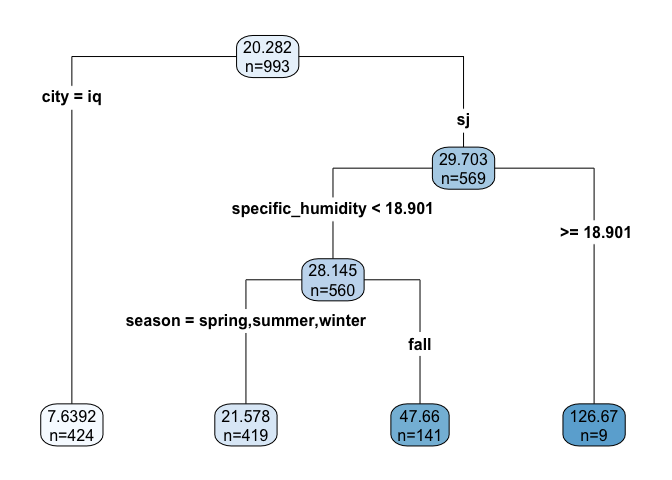
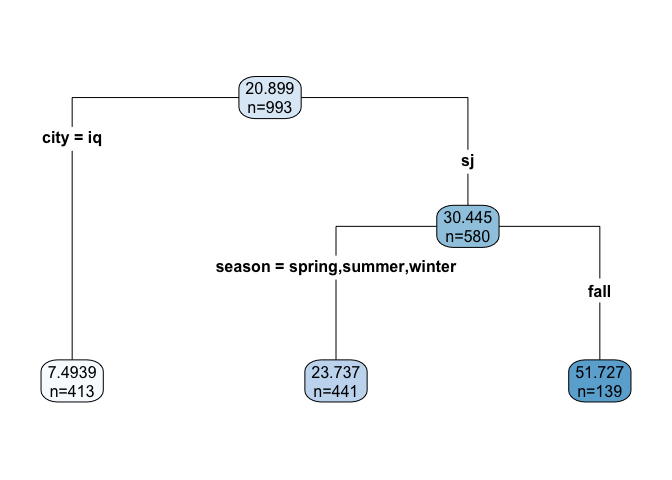
Solved problem 3.

diff --git a/code/data_mining_ex3.md b/code/data_mining_ex3.md
@@ -1,8 +1,8 @@
-Problem 1
-=========
+Problem 1: What causes what?
+============================
 
-1. Why can’t I just get data from a few different cities and run the regression of “Crime” on “Police” to understand how more cops in the streets affect crime? (“Crime” refers to some measure of crime rate and “Police” measures the number of cops in a city.)
-------------------------------------------------------------------------------------------------------------------------------------------------------------------------------------------------------------------------------------------------------------------
+Why can’t I just get data from a few different cities and run the regression of “Crime” on “Police” to understand how more cops in the streets affect crime? (“Crime” refers to some measure of crime rate and “Police” measures the number of cops in a city.)
+---------------------------------------------------------------------------------------------------------------------------------------------------------------------------------------------------------------------------------------------------------------
 
 Firstly, grouping data from different cities makes the incorrect
 assumption that the data points are independently and identically
@@ -17,8 +17,8 @@ lack of control variables in the regression as crime rates can be
 influenced by several other variables as mentioned above; this could
 lead to incorrect estimation of the effect of “Police” on “Crime”.
 
-2. How were the researchers from UPenn able to isolate this effect? Briefly describe their approach and discuss their result in the “Table 2” below, from the researchers’ paper.
----------------------------------------------------------------------------------------------------------------------------------------------------------------------------------
+How were the researchers from UPenn able to isolate this effect? Briefly describe their approach and discuss their result in the “Table 2” below, from the researchers’ paper.
+------------------------------------------------------------------------------------------------------------------------------------------------------------------------------
 
 The researchers from UPenn narrowed down their research to only one
 city, Washington, D.C., assuming that the data points would be
@@ -61,8 +61,8 @@ statistically significant at the 5% and 1% level, respectively, the
 second regression performs better than the first regression, although by
 only a small margin.
 
-3. Why did they have to control for Metro ridership? What was that trying to capture?
--------------------------------------------------------------------------------------
+Why did they have to control for Metro ridership? What was that trying to capture?
+----------------------------------------------------------------------------------
 
 It is possible that on High Alert days, fewer people are out in the city
 due to higher threat levels of terrorism. Fewer people out in the city
@@ -72,8 +72,8 @@ controlled for. Metro ridership attempts to capture the number of
 potential victims of crime based on the changes in ridership with
 respect to High Alert days.
 
-4. Below I am showing you “Table 4” from the researchers’ paper. Just focus on the first column of the table. Can you describe the model being estimated here? What is the conclusion?
---------------------------------------------------------------------------------------------------------------------------------------------------------------------------------------
+Below I am showing you “Table 4” from the researchers’ paper. Just focus on the first column of the table. Can you describe the model being estimated here? What is the conclusion?
+-----------------------------------------------------------------------------------------------------------------------------------------------------------------------------------
 
 The researchers are estimating the district-specific effects of High
 Alert days on the daily total number of crimes in D.C., while
@@ -103,8 +103,8 @@ constant. However, a comparison between District 1 and Other Districts
 cannot be made due the lack of significance of the “High Alert x Other
 Districts” coefficient.
 
-Problem 2
-=========
+Problem 2: Tree modeling: dengue cases
+======================================
 
 CART model: Regression Tree
 ---------------------------
@@ -117,14 +117,14 @@ CART model: Regression Tree
 
 ### RMSE of predicting the regression tree on the test set
 
-    ## [1] 32.89083
+    ## [1] 29.93283
 
 Random Forests
 --------------
 
-### RMSE of predicting randam forest on the test set
+### RMSE of predicting random forest on the test set
 
-    ## [1] 31.72132
+    ## [1] 27.69444
 
 Gradient-Boosted Trees
 ----------------------
@@ -133,7 +133,7 @@ Gradient-Boosted Trees
 
 ![](data_mining_ex3_files/figure-markdown_strict/unnamed-chunk-5-1.png)
 
-    ## [1] 245
+    ## [1] 85
 
 The figure above displays a loss function as a result of n trees added
 to the ensemble for the chosen gradient boosted machine (gbm) model .
@@ -148,9 +148,9 @@ The RMSE between the predicted total number cases of dengue from the
 chosen gbm model and the actual total number of cases of dengue from the
 test set is shown below.
 
-    ## [1] 32.54443
+    ## [1] 28.23562
 
-### Possion distribution
+### Poisson distribution
 
 This gbm model assumes poisson distibution since the variable of
 interest is a count variable. All parameters are the same as for the
@@ -159,7 +159,7 @@ function above. The RMSE between the predicted total number cases of
 dengue from the chosen gbm model and the actual total number of cases of
 dengue from the test set is shown below.
 
-    ## [1] 32.72318
+    ## [1] 28.84149
 
 Since, the RMSE for the second gbm model is the lowest out of all the
 models observed above, it will be utilized to create partial dependence
@@ -183,9 +183,132 @@ Rainfall for the week in millimeters.
 
 ![](data_mining_ex3_files/figure-markdown_strict/unnamed-chunk-9-1.png)
 
-### tdtr\_k"
+### tdtr\_k
 
 The average Diurnal Temperature Range (DTR) for the week. DTR is the
 difference between the maximum and minimum temperature for a single day.
 
 ![](data_mining_ex3_files/figure-markdown_strict/unnamed-chunk-10-1.png)
+
+Problem 3: Predictive model building: green certification
+=========================================================
+
+Goal
+----
+
+The goal is to build the best predictive model possible for revenue per
+square foot per calendar year, and to use this model to quantify the
+average change in rental income per square foot ssociated with green
+certification, holding other features of the building constant.
+
+Methods
+-------
+
+I first created a new data frame with a ***revenue*** column which is a
+product of the ***Rent*** and ***leasing\_rate*** variables. Then to
+decide whether to include the green certifications of ***Energystar***
+and ***LEED*** separately or as a single green certification rating, I
+performed some exploratory analysis. I plotted ***mean\_revenue***
+against ***age*** faceted first by ***Energystar*** and
+***renovation***, and then by ***LEED*** and ***renovation***. I assumed
+that property age would be among the top influencers for mean revenue,
+so faceting the data by ***Energystar*** and ***LEED*** would reveal
+clearer effects of the two ratings on the mean revenue. I also faceted
+by ***renovation*** assuming that for older buildings, renovated
+properties are more likely to have green ratings. The plots reflect that
+buildings with the LEED certification tend to have lower mean revenues
+than the buildings with the Energystar certification, therefore I
+decided to include both the certification separately.
+
+![](data_mining_ex3_files/figure-markdown_strict/unnamed-chunk-11-1.png)![](data_mining_ex3_files/figure-markdown_strict/unnamed-chunk-11-2.png)
+
+Modeling approach
+-----------------
+
+### Random Forests
+
+I began by splitting 80% of the data into the training set and 20% into
+the testing set. I started with the random forests technique as it is
+quite robust, quick, and basically eliminates the need for
+cross-validation due to its “out-of-bag” predictions. I first utilized
+all of the features in the training set and calculated the resulting
+RMSE between the predcited revenue and the actual revenue in the testing
+set which is shown below. It is
+
+    ## [1] 775.0415
+
+To identify the important variables in the random forest model, I
+plotted the variable importance graph shown below. It can be seen that
+***hd\_total07***, ***LEED***, ***green\_rating***, ***net***, and
+***Energystar*** are the least important variables in that order
+(decreasing in importance).
+
+![](data_mining_ex3_files/figure-markdown_strict/unnamed-chunk-13-1.png)
+
+Since ***LEED*** and ***Energystar*** are the variables under
+consideration, I created a new model by removing the other least
+important variables mentioned above to check for RMSE improvement in the
+new model. The RMSE of the new model is shown below. It is slightly
+lower than that of the previous model.
+
+    ## [1] 776.3518
+
+The partial dependence plots (pdp) for the ***LEED*** and
+***Energystar*** variables using the second random forests model are
+shown below.
+
+![](data_mining_ex3_files/figure-markdown_strict/unnamed-chunk-15-1.png)![](data_mining_ex3_files/figure-markdown_strict/unnamed-chunk-15-2.png)
+
+#### Conclusion
+
+The pdp for LEED shows that when LEED = 0, the predicted revenue per
+square foot per calendar year is 2450 and when LEED = 1, the predicted
+revenue per square foot per calendar year is slightly above 2600.
+Likewise, the pdp for Energystar shows that when Energystar = 0, the
+revenue per square foot per calendar year is slightly below 2435 and
+when Energystar = 1, the revenue per square foot per calendar year is
+approximately 2465. These plots reflect that the revenue predictions for
+buildings with green ratings are higher than buildings without a green
+rating, holding all else constant. Furthermore, buildings with LEED
+ratings have higher predicted revenues than buildings with Energystar
+ratings, holding all else constant.
+
+### Gradient Boosting (Model of Choice)
+
+I utilized the same training and test splits to evaulate a gradient
+boosted model with 10-fold cross validation. I assumed the Gaussian
+distribution with the following parameters: interaction.depth = 4,
+n.trees = 10000, shrinkage = .05. I ended up choosing such a high number
+of trees becuase the loss function kept showing the n-th tree as the
+mean-squared-error minimizer until I chose 10,000 and received a 9000+
+number as the mean-squared-error minimizer. The number of trees that
+minimized te mean-squared-error and a plot of the loss function is
+displayed below.
+
+![](data_mining_ex3_files/figure-markdown_strict/unnamed-chunk-16-1.png)
+
+    ## [1] 9999
+
+The RMSE between the predicted revenue and the actual revenue from the
+test set is dislayed below. It is lower than that of the random forests
+model. Therefore, this model will be the model of choice.
+
+    ## [1] 787.5751
+
+![](data_mining_ex3_files/figure-markdown_strict/unnamed-chunk-18-1.png)![](data_mining_ex3_files/figure-markdown_strict/unnamed-chunk-18-2.png)
+
+#### Conclusion
+
+The pdp for LEED shows that when LEED = 0, the predicted revenue per
+square foot per calendar year is 2400 (lower than random forests’
+prediction) and when LEED = 1, the predicted revenue per square foot per
+calendar year is approximately 2750 (higher than random forests’
+prediction). Likewise, the pdp for Energystar shows that when Energystar
+= 0, the revenue per square foot per calendar year is approximately 2395
+(lower than random forests’ prediction) and when Energystar = 1, the
+revenue per square foot per calendar year is approximately 2445 (lower
+than random forests’ prediction). These plots reflect that the revenue
+predictions for buildings with green ratings are higher than buildings
+without a green rating, holding all else constant. Furthermore,
+buildings with LEED ratings have higher predicted revenues than
+buildings with Energystar ratings, holding all else constant.
